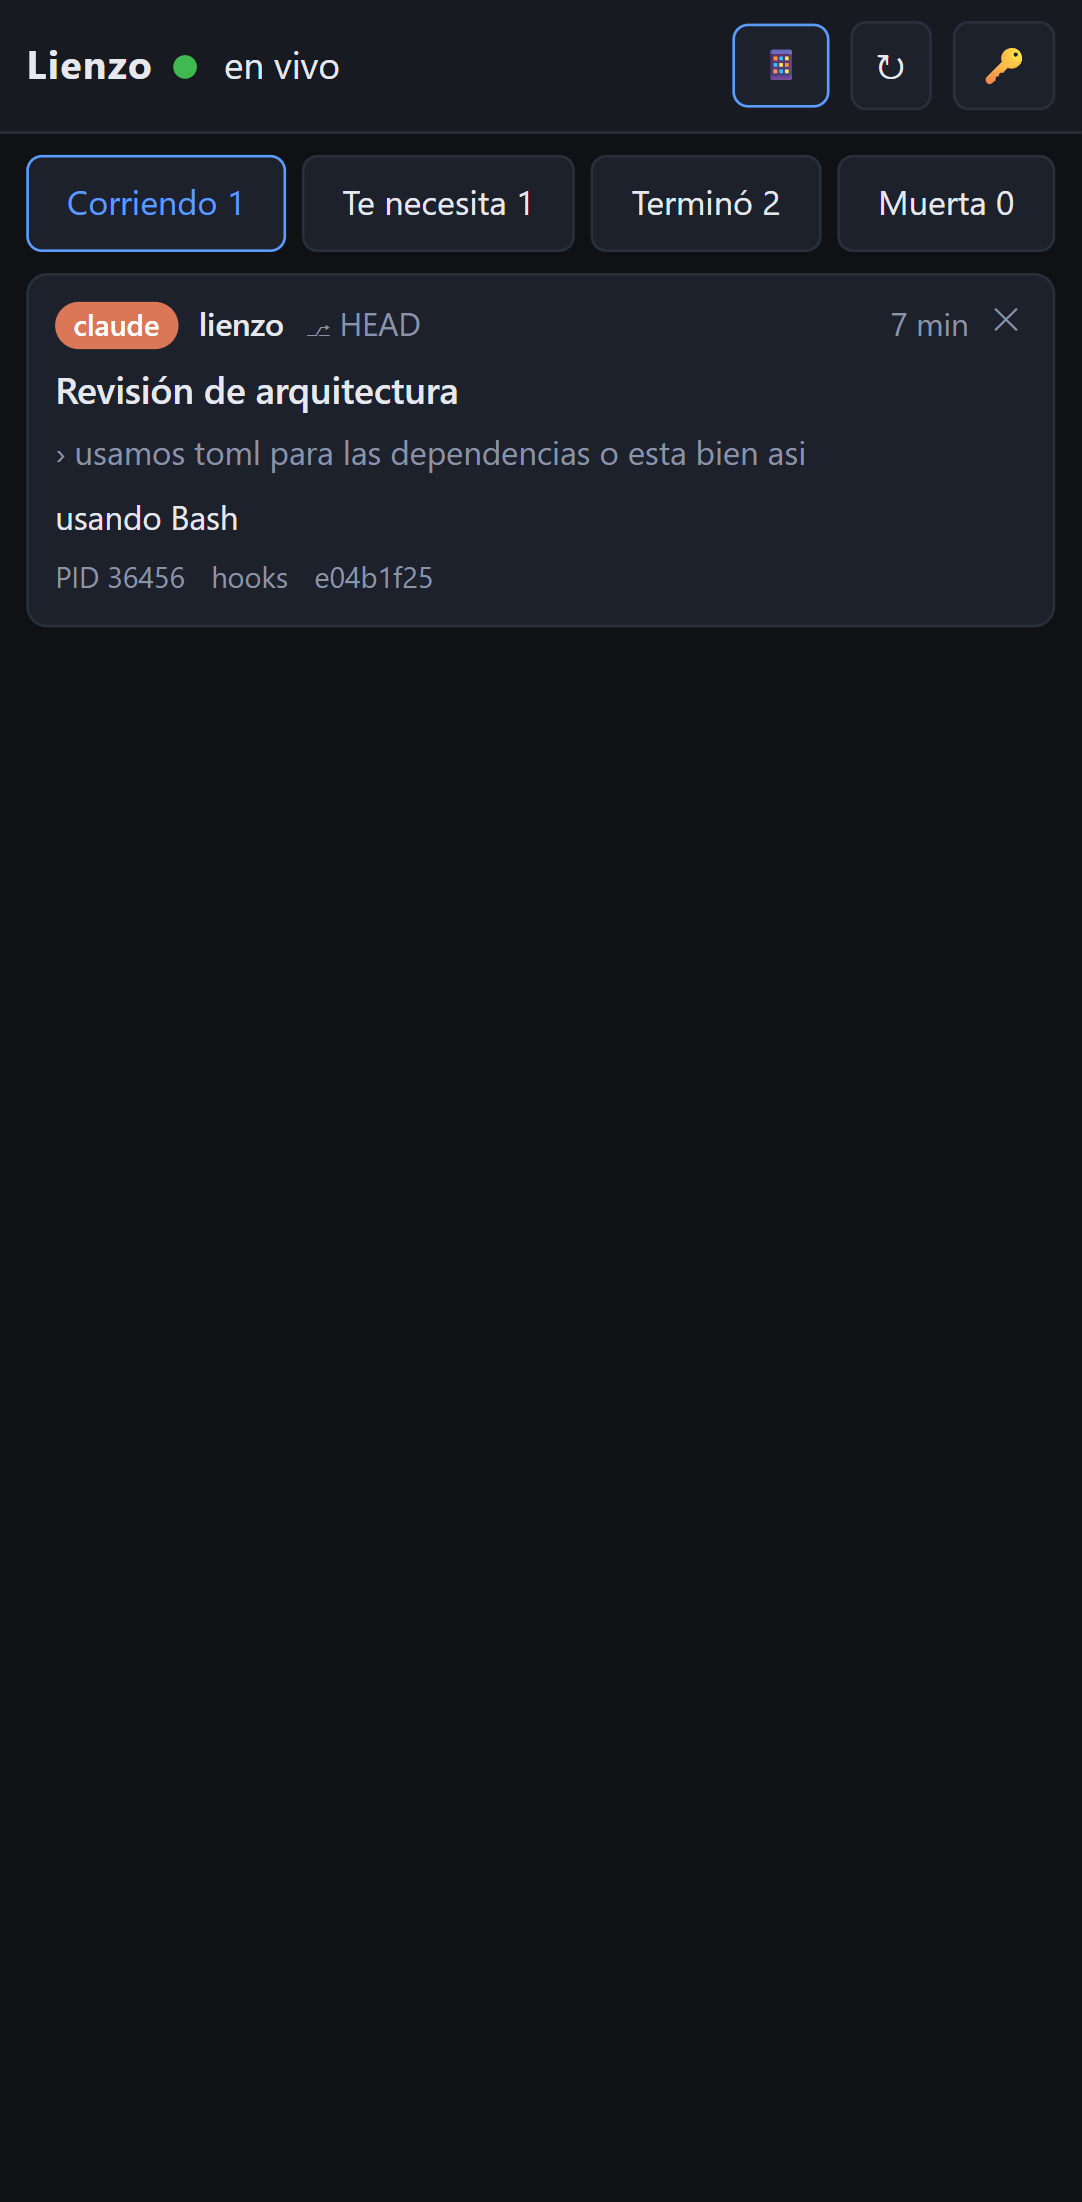
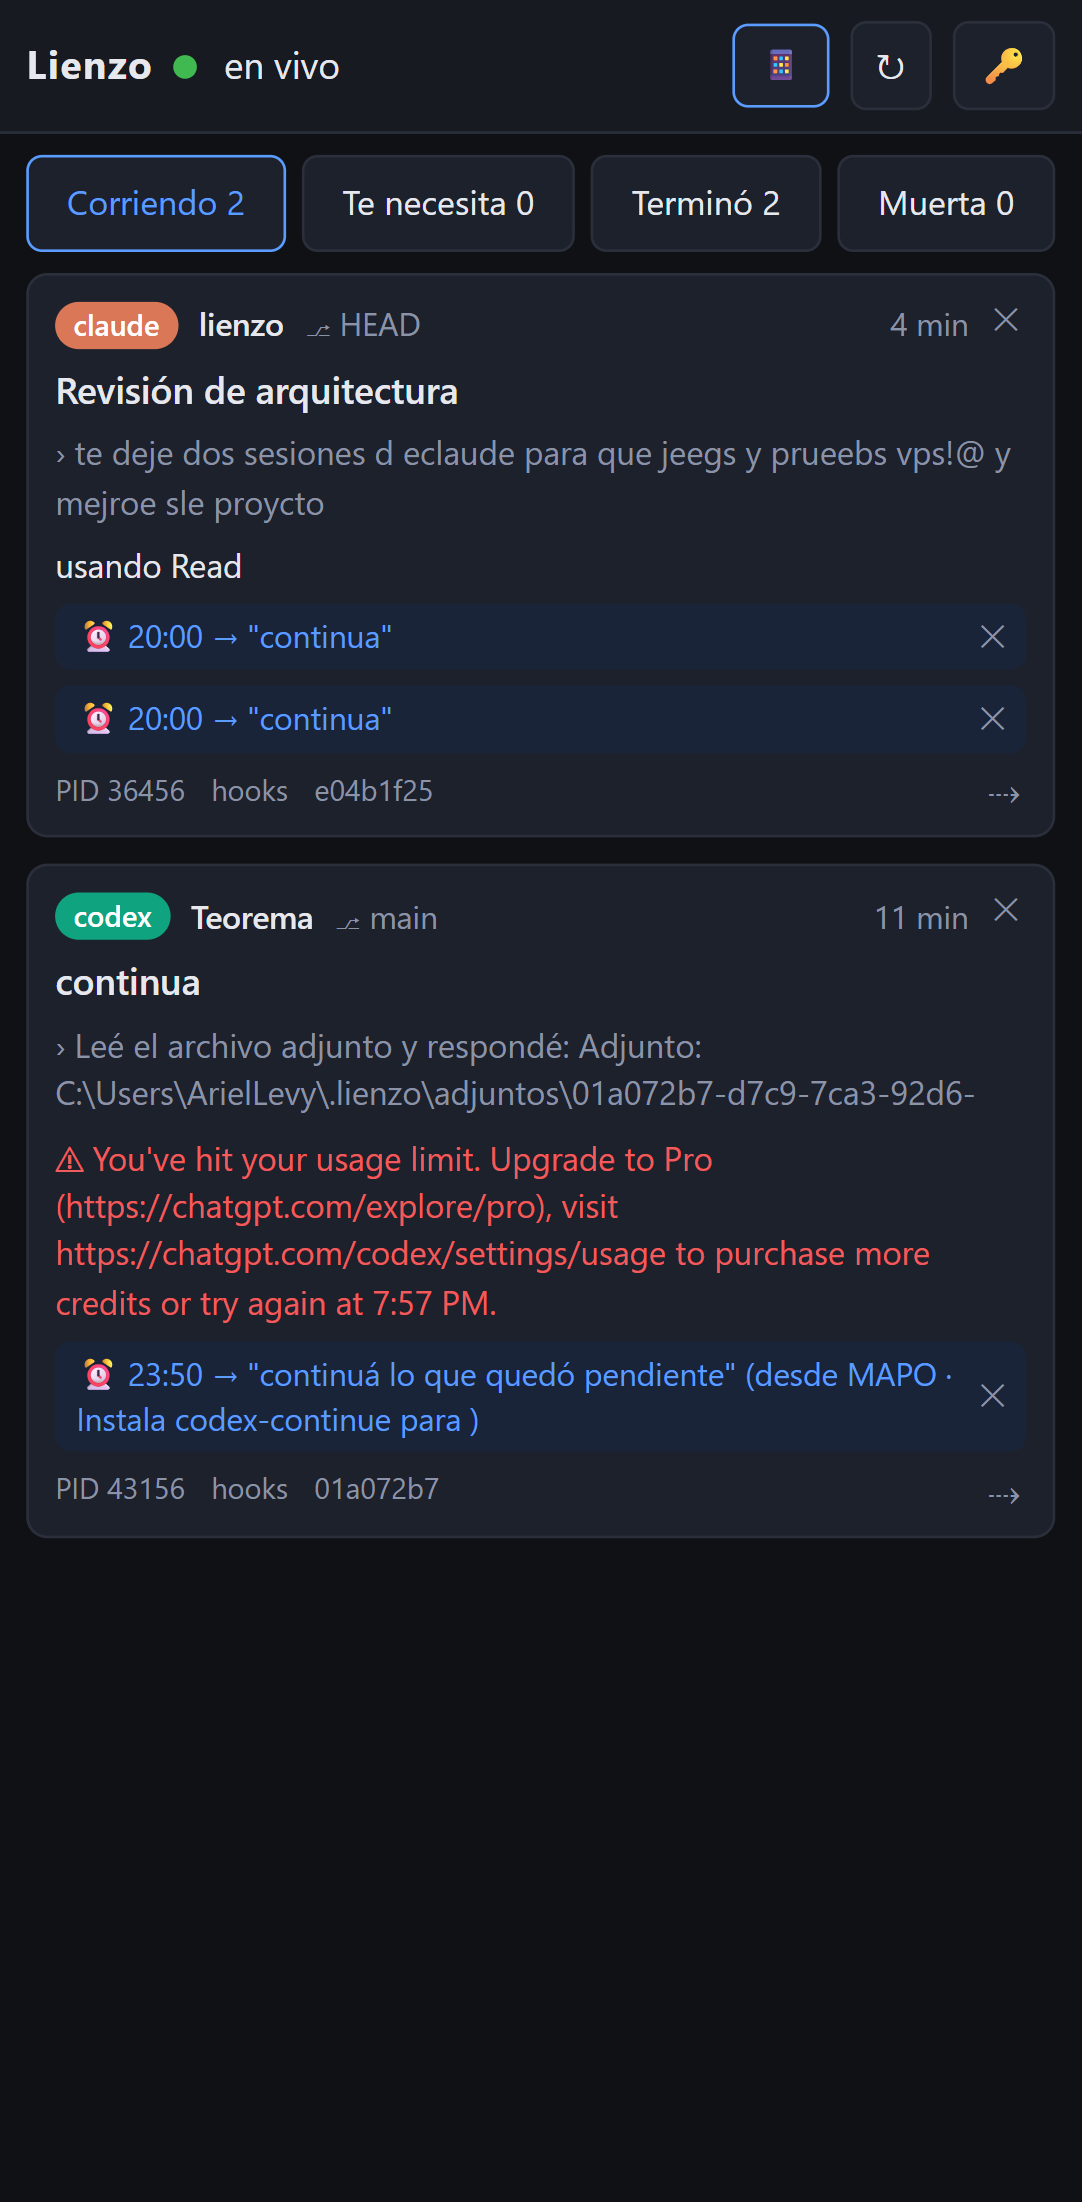
Canal nativo Claude<->Claude como cuarto modo; flecha doble; digest muestra SendMessage
La tarjeta muestra el contenido del adjunto en vez del envoltorio "Leé el archivo adjunto".
Reglas programadas conservan el origen y se dibujan punteadas con reloj.

Claude-Session: https://claude.ai/code/session_01U8JYzvTFJ2Fhdbfi6x9HM2

diff --git a/web/src/components/Forward.tsx b/web/src/components/Forward.tsx
@@ -1,11 +1,19 @@
 import { useEffect, useMemo, useState } from "react";
-import { api } from "../api";
+import { ago, api } from "../api";
 import { parseConnection } from "../nl";
 import type { DigestResponse, Session } from "../types";
 
 const DEFAULT_TEMPLATE = "Mensaje de {repo} ({agente}) sobre '{titulo}':\n{respuesta}";
 const KEY = "lienzo.forward.template";
-type Mode = "now" | "on_stop" | "at";
+type Mode = "now" | "on_stop" | "at" | "native";
+
+/** Instruccion que se le inyecta a A para que abra el canal nativo de Claude Code con B.
+ *  Los nombres internos (lienzo-04, mapo-bf) no se pueden mapear desde afuera: A los resuelve
+ *  con ListAgents a partir del repo y el titulo de B. */
+function nativeInstruction(b: Session, text: string): string {
+  const who = b.title ? `"${b.title}" (repo ${b.repo})` : `repo ${b.repo}`;
+  return `Abrí un canal con otra sesión de Claude Code de esta máquina. Usá ListAgents y ubicá la sesión que corresponde a ${who}, que arrancó hace ${ago(b.started)}; no sos vos. Mandale con SendMessage lo siguiente y seguí la conversación por ese mismo canal (respondiéndole con SendMessage) hasta cerrar el tema; al final resumime acá qué quedó: ${text}`;
+}
 
 function loadTemplate(): string {
   try {
@@ -56,6 +64,7 @@ export function Forward({ from, others, initialTarget, toast, onDone }: Props) {
   const [reply, setReply] = useState(from.last_reply || "");
   const [text, setText] = useState(() => fill(loadTemplate(), from, from.last_reply || ""));
   const [atText, setAtText] = useState("Continuá");
+  const [nativeText, setNativeText] = useState("");
   const [hhmm, setHhmm] = useState(() => {
     const d = new Date(Date.now() + 60 * 60 * 1000);
     return `${String(d.getHours()).padStart(2, "0")}:${String(d.getMinutes()).padStart(2, "0")}`;
@@ -105,6 +114,15 @@ export function Forward({ from, others, initialTarget, toast, onDone }: Props) {
           from: from.session_id,
         });
         toast(`Enviado a ${targetSession.repo} (${r.chars} caracteres)`);
+      } else if (mode === "native") {
+        // se le habla a A (esta sesion) para que abra el canal con B; la flecha doble es A <-> B
+        await api.post(`/sessions/${from.session_id}/send`, {
+          text: nativeInstruction(targetSession, nativeText),
+          attachments: [],
+          link_to: targetSession.session_id,
+          native: true,
+        });
+        toast(`${from.repo} va a abrir el canal con ${targetSession.repo}`);
       } else if (mode === "on_stop") {
         await api.post("/rules", {
           kind: "on_stop",
@@ -121,7 +139,9 @@ export function Forward({ from, others, initialTarget, toast, onDone }: Props) {
           toast("Hora inválida", true);
           return;
         }
-        await api.post("/rules", { kind: "at", from: null, to: targetSession.session_id, text: atText, at });
+        // el origen queda registrado (si no es la misma sesion) para dibujar la flecha A -> B
+        const src = targetSession.session_id === from.session_id ? null : from.session_id;
+        await api.post("/rules", { kind: "at", from: src, to: targetSession.session_id, text: atText, at });
         toast(`A las ${hhmm} se manda "${atText}" a ${targetSession.repo}`);
       }
       onDone();
@@ -190,10 +210,16 @@ export function Forward({ from, others, initialTarget, toast, onDone }: Props) {
         <label className={mode === "at" ? "on" : ""}>
           <input type="radio" checked={mode === "at"} onChange={() => setMode("at")} /> A una hora
         </label>
+        {from.agent === "claude" && targetSession?.agent === "claude" && (
+          <label className={mode === "native" ? "on" : ""} title="las dos son Claude Code: pueden hablarse entre sí con SendMessage">
+            <input type="radio" checked={mode === "native"} onChange={() => setMode("native")} /> ⇄ Canal nativo
+          </label>
+        )}
       </div>
 
       <div className="small dim">
         {mode === "now" && "Manda ya la última respuesta de esta sesión a la otra, como si la tipearas ahí."}
+        {mode === "native" && "Las dos son Claude Code: esta sesión ubica a la otra con ListAgents y le habla con SendMessage. Los mensajes llegan aunque la otra esté trabajando, y se responden por el mismo canal. Vos les das el tema; ellas conversan."}
         {mode === "on_stop" && "Cada vez que esta sesión cierre un turno, su respuesta final se manda a la otra con la plantilla. Una vez, o hasta un tope."}
         {mode === "at" && "A la hora indicada se manda un texto fijo a la sesión elegida (puede ser esta misma). Sirve para el \"Continuá\" cuando vuelven los créditos."}
       </div>
@@ -214,7 +240,14 @@ export function Forward({ from, others, initialTarget, toast, onDone }: Props) {
             </select>
           </div>
 
-          {mode === "at" ? (
+          {mode === "native" ? (
+            <textarea
+              value={nativeText}
+              onChange={(e) => setNativeText(e.target.value)}
+              rows={4}
+              placeholder="El tema de la conversación. Ej: “Revisá lo que hizo la otra sesión en web/src y acordá con ella los cambios; que ella los aplique.”"
+            />
+          ) : mode === "at" ? (
             <div className="row">
               <span className="small dim">Hora</span>
               <input type="time" value={hhmm} onChange={(e) => setHhmm(e.target.value)} />
@@ -246,12 +279,20 @@ export function Forward({ from, others, initialTarget, toast, onDone }: Props) {
 
           <div className="row">
             <span className="small dim">
-              {mode === "now" ? "Si supera 500 caracteres viaja como adjunto .md" : "La regla se ve como flecha punteada; click en el círculo la quita"}
+              {mode === "now"
+                ? "Si supera 500 caracteres viaja como adjunto .md"
+                : mode === "native"
+                  ? "Queda una flecha doble entre las dos; el digest muestra los mensajes que se cruzan"
+                  : "La regla se ve como flecha punteada; click en el círculo la quita"}
             </span>
             <span className="sp" />
             <button onClick={onDone}>Cancelar</button>
-            <button className="primary" disabled={busy || !targetSession || (mode === "now" && !text.trim()) || (mode === "at" && !atText.trim())} onClick={submit}>
-              {mode === "now" ? "Enviar ahora" : mode === "on_stop" ? "Conectar" : "Programar"}
+            <button
+              className="primary"
+              disabled={busy || !targetSession || (mode === "now" && !text.trim()) || (mode === "at" && !atText.trim()) || (mode === "native" && !nativeText.trim())}
+              onClick={submit}
+            >
+              {mode === "now" ? "Enviar ahora" : mode === "on_stop" ? "Conectar" : mode === "native" ? "Abrir canal" : "Programar"}
             </button>
           </div>
         </>

diff --git a/web/src/components/Arrows.tsx b/web/src/components/Arrows.tsx
@@ -13,7 +13,7 @@ interface Props {
 
 interface Seg {
   id: string;
-  kind: "link" | "rule";
+  kind: "link" | "rule" | "native";
   d: string;
   x: number;
   y: number;
@@ -57,12 +57,23 @@ export function Arrows({ links, rules, boardRef, deps, onDelete, onDeleteRule }:
     };
     for (const l of links) {
       const p = path(l.from, l.to);
-      if (p) out.push({ id: l.id, kind: "link", ...p, glyph: "↪", title: `reenvío hace ${ago(l.ts)}\n${l.text}\n(click para quitar la flecha)` });
+      if (!p) continue;
+      if (l.kind === "native") {
+        out.push({ id: l.id, kind: "native", ...p, glyph: "⇄", title: `canal nativo Claude↔Claude abierto hace ${ago(l.ts)}\n${l.text}\n(click para quitar la flecha)` });
+      } else {
+        out.push({ id: l.id, kind: "link", ...p, glyph: "↪", title: `reenvío hace ${ago(l.ts)}\n${l.text}\n(click para quitar la flecha)` });
+      }
     }
     for (const r of rules) {
-      if (!r.enabled || r.kind !== "on_stop" || !r.from || r.from === r.to) continue;
+      if (!r.enabled || !r.from || r.from === r.to) continue;
       const p = path(r.from, r.to);
-      if (p) out.push({ id: r.id, kind: "rule", ...p, glyph: "⏹", title: `cuando termine → manda su respuesta${r.repeat ? ` (${r.fired}/${r.max_fires})` : " (una vez)"}\n(click para quitar la conexión)` });
+      if (!p) continue;
+      if (r.kind === "on_stop") {
+        out.push({ id: r.id, kind: "rule", ...p, glyph: "⏹", title: `cuando termine → manda su respuesta${r.repeat ? ` (${r.fired}/${r.max_fires})` : " (una vez)"}\n(click para quitar la conexión)` });
+      } else {
+        const t = r.at ? new Date(r.at).toLocaleTimeString([], { hour: "2-digit", minute: "2-digit", hour12: false }) : "?";
+        out.push({ id: r.id, kind: "rule", ...p, glyph: "⏰", title: `a las ${t} → "${r.text}"\n(click para quitar la conexión)` });
+      }
     }
     setSegs(out);
   };
@@ -87,14 +98,18 @@ export function Arrows({ links, rules, boardRef, deps, onDelete, onDeleteRule }:
         <marker id="arrowhead" markerWidth="10" markerHeight="8" refX="9" refY="4" orient="auto">
           <path d="M0,0 L10,4 L0,8 z" fill="var(--acc)" />
         </marker>
+        <marker id="arrowtail" markerWidth="10" markerHeight="8" refX="1" refY="4" orient="auto">
+          <path d="M10,0 L0,4 L10,8 z" fill="var(--acc)" />
+        </marker>
       </defs>
       {segs.map((s) => (
         <g key={s.id} className="arrow">
-          <path d={s.d} className={`line ${s.kind}`} markerEnd="url(#arrowhead)" />
+          {s.kind === "native" && <path d={s.d} className="line native-outer" />}
+          <path d={s.d} className={`line ${s.kind}`} markerEnd="url(#arrowhead)" markerStart={s.kind === "native" ? "url(#arrowtail)" : undefined} />
           <g
             onClick={() => {
-              if (!confirm(s.kind === "link" ? "Quitar la flecha?" : "Quitar la conexión?")) return;
-              (s.kind === "link" ? onDelete : onDeleteRule)(s.id);
+              if (!confirm(s.kind === "rule" ? "Quitar la conexión?" : "Quitar la flecha?")) return;
+              (s.kind === "rule" ? onDeleteRule : onDelete)(s.id);
             }}
           >
             <title>{s.title}</title>

diff --git a/web/src/components/Card.tsx b/web/src/components/Card.tsx
@@ -9,8 +9,9 @@ function ruleLabel(r: Rule, sid: string, sessions: Record<string, Session>): str
     return o.title ? `${o.repo} · ${o.title.slice(0, 28)}` : `${o.repo} · ${o.session_id.slice(0, 8)}`;
   };
   if (r.kind === "at") {
-    const t = r.at ? new Date(r.at).toLocaleTimeString([], { hour: "2-digit", minute: "2-digit" }) : "?";
-    return r.to === sid ? `⏰ ${t} → "${r.text}"` : `⏰ ${t} → "${r.text}" a ${other(r.to)}`;
+    const t = r.at ? new Date(r.at).toLocaleTimeString([], { hour: "2-digit", minute: "2-digit", hour12: false }) : "?";
+    if (r.to === sid) return r.from && r.from !== sid ? `⏰ ${t} → "${r.text}" (desde ${other(r.from)})` : `⏰ ${t} → "${r.text}"`;
+    return `⏰ ${t} → "${r.text}" a ${other(r.to)}`;
   }
   const count = r.repeat ? ` (${r.fired}/${r.max_fires})` : "";
   return r.from === sid ? `⏹ al terminar → ${other(r.to)}${count}` : `⏹ recibe de ${other(r.from)} al terminar${count}`;

diff --git a/web/src/styles.css b/web/src/styles.css
@@ -133,6 +133,9 @@ button:disabled { opacity: .45; cursor: not-allowed; }
 .card .rule .del { margin-left: auto; cursor: pointer; color: var(--dim); }
 .card .rule .del:hover { color: var(--dead); }
 .arrows .line.rule { stroke-dasharray: 7 5; opacity: .7; }
+/* canal nativo Claude<->Claude: doble linea gruesa con punta en los dos extremos */
+.arrows .line.native-outer { stroke: var(--acc); stroke-width: 7; opacity: .35; }
+.arrows .line.native { stroke-width: 2.5; opacity: 1; }
 .panel .ph button.on { border-color: var(--acc); color: var(--acc); }
 
 .gate { position: fixed; inset: 0; background: rgba(8, 10, 14, .85); display: flex; align-items: center; justify-content: center; z-index: 30; padding: 16px; }

diff --git a/web/src/components/Digest.tsx b/web/src/components/Digest.tsx
@@ -46,6 +46,12 @@ export function Digest({ turn: t }: { turn: DigestTurn }) {
           {list(t.questions)}
         </>
       )}
+      {(t.peers?.length ?? 0) > 0 && (
+        <>
+          <div className="k">mensajes a otras sesiones</div>
+          {list(t.peers!)}
+        </>
+      )}
       <div className="stats">
         {t.tools} herramientas · {t.reads} lecturas
         {t.subagents ? ` · ${t.subagents} líneas de subagente` : ""}

diff --git a/web/src/types.ts b/web/src/types.ts
@@ -76,6 +76,7 @@ export interface DigestTurn {
   commands: string[];
   errors: string[];
   questions: string[];
+  peers?: string[];
   reads: number;
   subagents: number;
   tools: number;
@@ -99,6 +100,7 @@ export interface Link {
   to: string;
   ts: string;
   text: string;
+  kind?: "send" | "native";
 }
 
 export interface Rule {

diff --git a/lienzo/server.py b/lienzo/server.py
@@ -165,6 +165,26 @@ def repo_of(cwd: str | None) -> str:
     return os.path.basename((cwd or "").rstrip("\\/")) or "?"
 
 
+ATTACH_WRAPPER = "Leé el archivo adjunto y respondé:"
+
+
+def unwrap_attachment(prompt: str) -> str:
+    """Un texto largo viaja como 'Leé el archivo adjunto y respondé: Adjunto: <ruta>'. En la
+    tarjeta se muestra el contenido del adjunto, no el envoltorio."""
+    p = (prompt or "").strip()
+    if not p.startswith(ATTACH_WRAPPER):
+        return prompt
+    for part in p.split("Adjunto: ")[1:]:
+        path = part.strip().split(" Adjunto: ")[0].strip()
+        if path.lower().endswith(".md") and os.path.isfile(path):
+            try:
+                with open(path, encoding="utf-8") as f:
+                    return f.read(600)
+            except OSError:
+                pass
+    return prompt
+
+
 def tool_detail(tool_name: str | None, tool_input) -> str:
     if not isinstance(tool_input, dict):
         return short(str(tool_input or ""), 200)
@@ -180,8 +200,9 @@ def save_session(s: dict) -> None:
     atomic_write(os.path.join(SESSIONS, f"{s['session_id']}.json"), json.dumps(s, ensure_ascii=False, indent=1))
 
 
-def add_link(src: str, dst: str, text: str) -> None:
-    links.add({"id": secrets.token_hex(6), "from": src, "to": dst, "ts": now(), "text": short(text, 160)})
+def add_link(src: str, dst: str, text: str, kind: str = "send") -> None:
+    """kind: send (inyeccion) | native (canal Claude<->Claude por SendMessage)."""
+    links.add({"id": secrets.token_hex(6), "from": src, "to": dst, "ts": now(), "text": short(text, 160), "kind": kind})
 
 
 # --- reglas: "cuando termine" y "a una hora" ------------------------------------------
@@ -389,7 +410,7 @@ def apply_event(ev: dict) -> None:
         elif name == "UserPromptSubmit":
             set_state(s, "corriendo")
             if not transcripts.is_system_prompt(ev.get("prompt", "")):
-                s["last_prompt"] = short(ev.get("prompt", ""), 500)
+                s["last_prompt"] = short(unwrap_attachment(ev.get("prompt", "")), 500)
             s["pending_id"] = None
         elif name == "Stop":
             set_state(s, "termino")
@@ -976,9 +997,13 @@ class Handler(BaseHTTPRequestHandler):
                 if parts[2] == "send":
                     d = self._json_body()
                     code, res = send_to_session(s, d.get("text", ""), list(d.get("attachments") or []))
-                    src = d.get("from")
-                    if code == 200 and src and src in sessions and src != s["session_id"]:
-                        add_link(src, s["session_id"], d.get("text", ""))
+                    src, link_to = d.get("from"), d.get("link_to")
+                    kind = "native" if d.get("native") else "send"
+                    if code == 200 and link_to and link_to in sessions and link_to != s["session_id"]:
+                        # canal nativo: se le habla a A para que abra conversacion con B; la flecha es A -> B
+                        add_link(s["session_id"], link_to, d.get("text", ""), kind)
+                    elif code == 200 and src and src in sessions and src != s["session_id"]:
+                        add_link(src, s["session_id"], d.get("text", ""), kind)
                     return self._json(code, res)
                 if parts[2] == "attach":
                     name = urllib.parse.unquote(self.headers.get("X-Filename") or "adjunto.bin")

diff --git a/lienzo/transcripts.py b/lienzo/transcripts.py
@@ -366,6 +366,7 @@ def turns(agent: str, path: str, n: int = 10, before: str | None = None, max_byt
 
 def digest_turn(turn: dict) -> dict:
     files, commands, errors, questions, reads = [], [], [], [], 0
+    peers: list[str] = []
     subagents = 0
     for b in turn["blocks"]:
         k = b["kind"]
@@ -392,6 +393,13 @@ def digest_turn(turn: dict) -> dict:
             for q in inp.get("questions") or []:
                 if isinstance(q, dict) and q.get("question"):
                     questions.append(q["question"])
+        elif name in ("SendMessage", "ListAgents"):
+            # canal nativo Claude<->Claude: a quien le hablo
+            to = inp.get("to") or inp.get("recipient")
+            if to:
+                peers.append(f"→ {to}: {_first_line(str(inp.get('message') or inp.get('content') or ''), 100)}")
+            elif name == "ListAgents":
+                peers.append("ListAgents")
         if res and res.get("is_error"):
             errors.append(f"{name}: {_first_line(res.get('text', ''))}")
     final = (turn.get("final") or "").strip()
@@ -407,7 +415,7 @@ def digest_turn(turn: dict) -> dict:
         "prompt": turn.get("prompt", ""),
         "final": _short(final, 600),
         "files": files, "commands": commands[:20], "errors": errors[:10],
-        "questions": questions, "reads": reads, "subagents": subagents,
+        "questions": questions, "peers": peers[:10], "reads": reads, "subagents": subagents,
         "tools": sum(1 for b in turn["blocks"] if b["kind"] == "tool"),
     }
 
